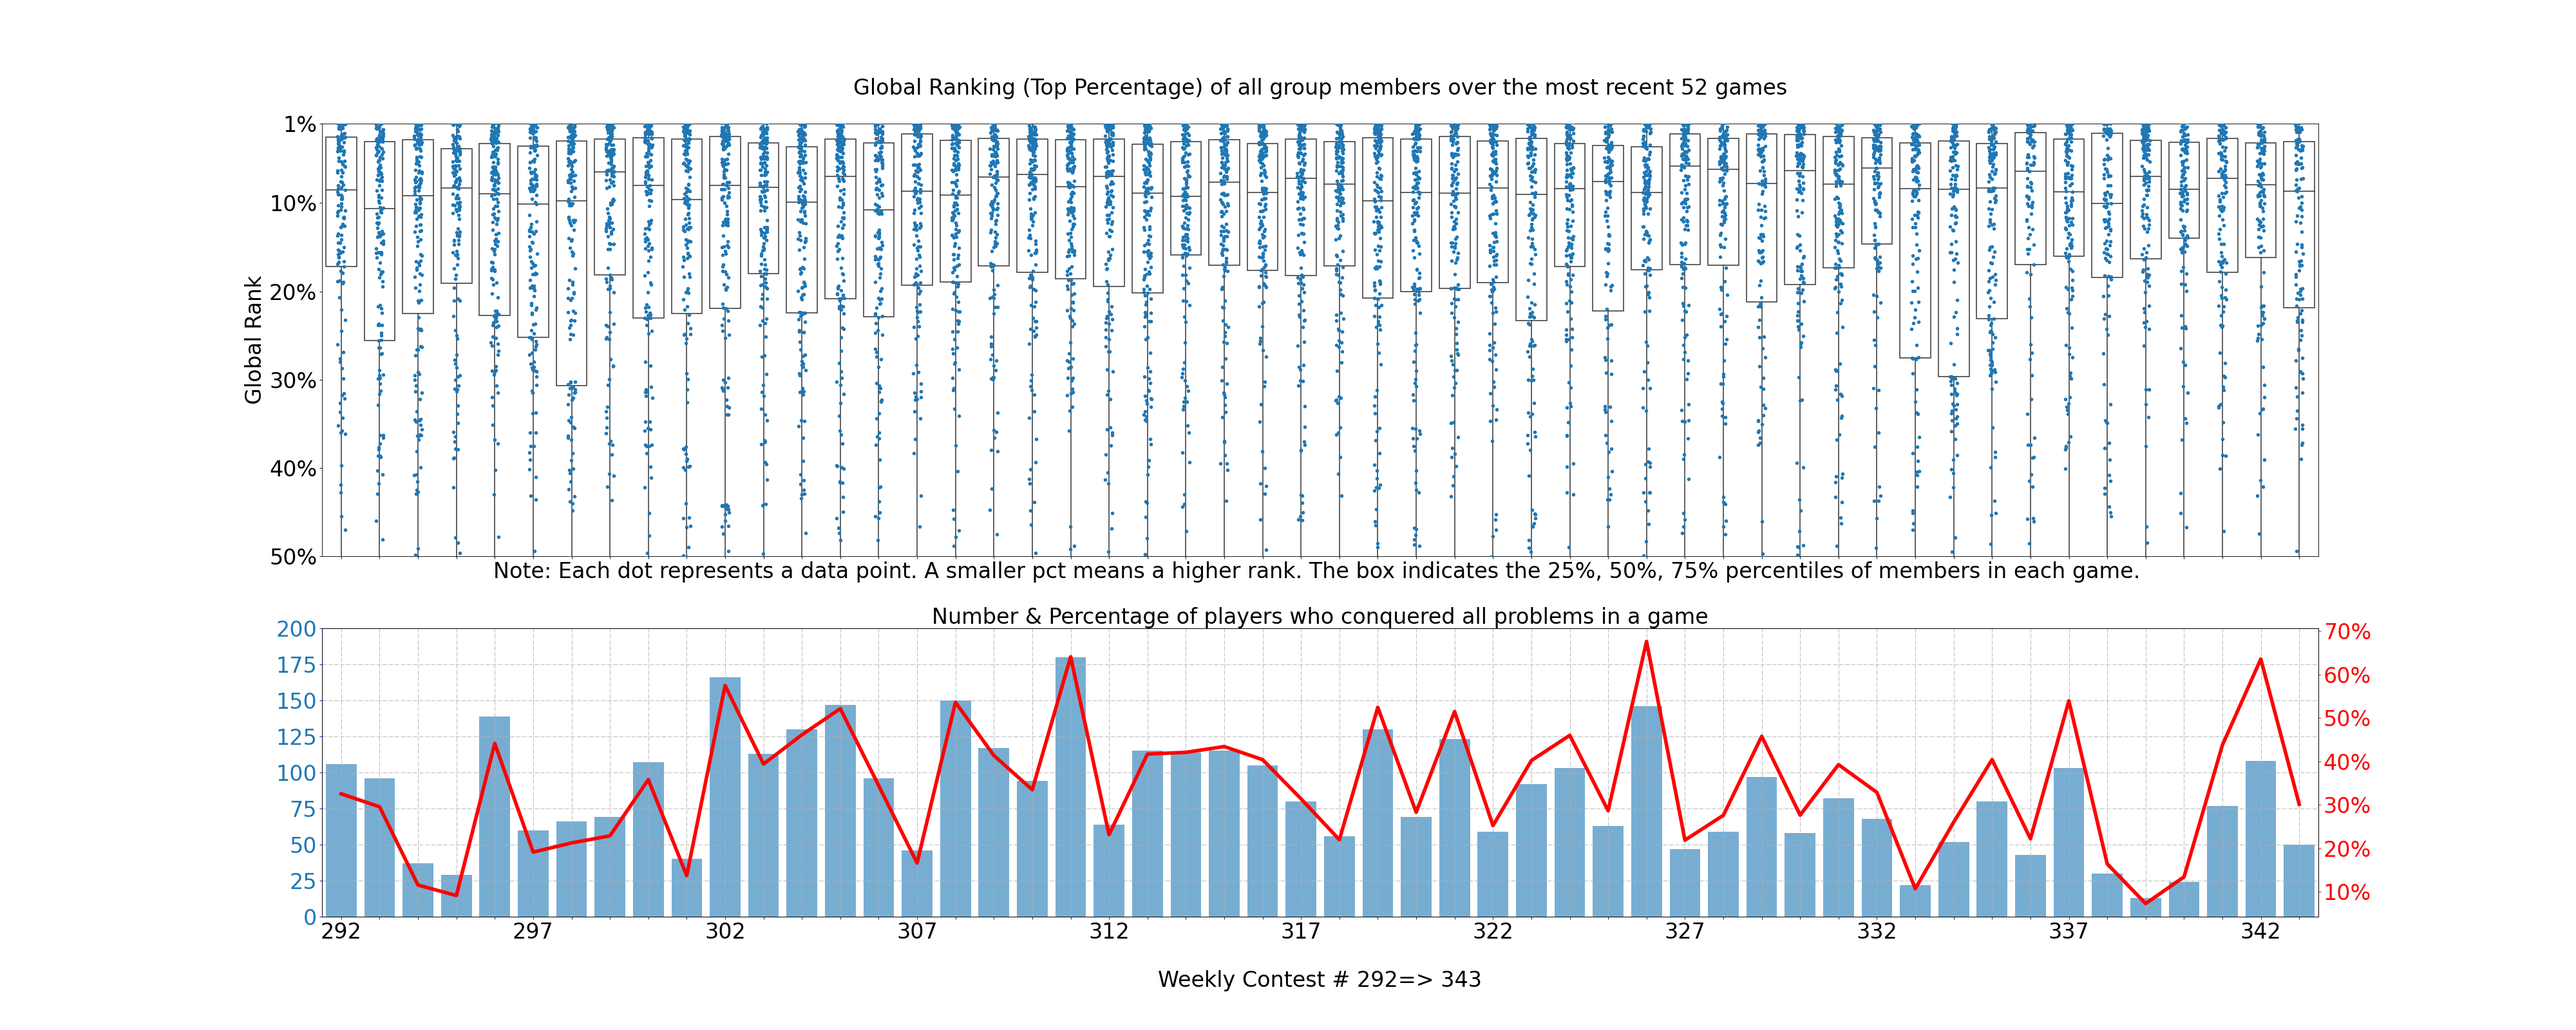
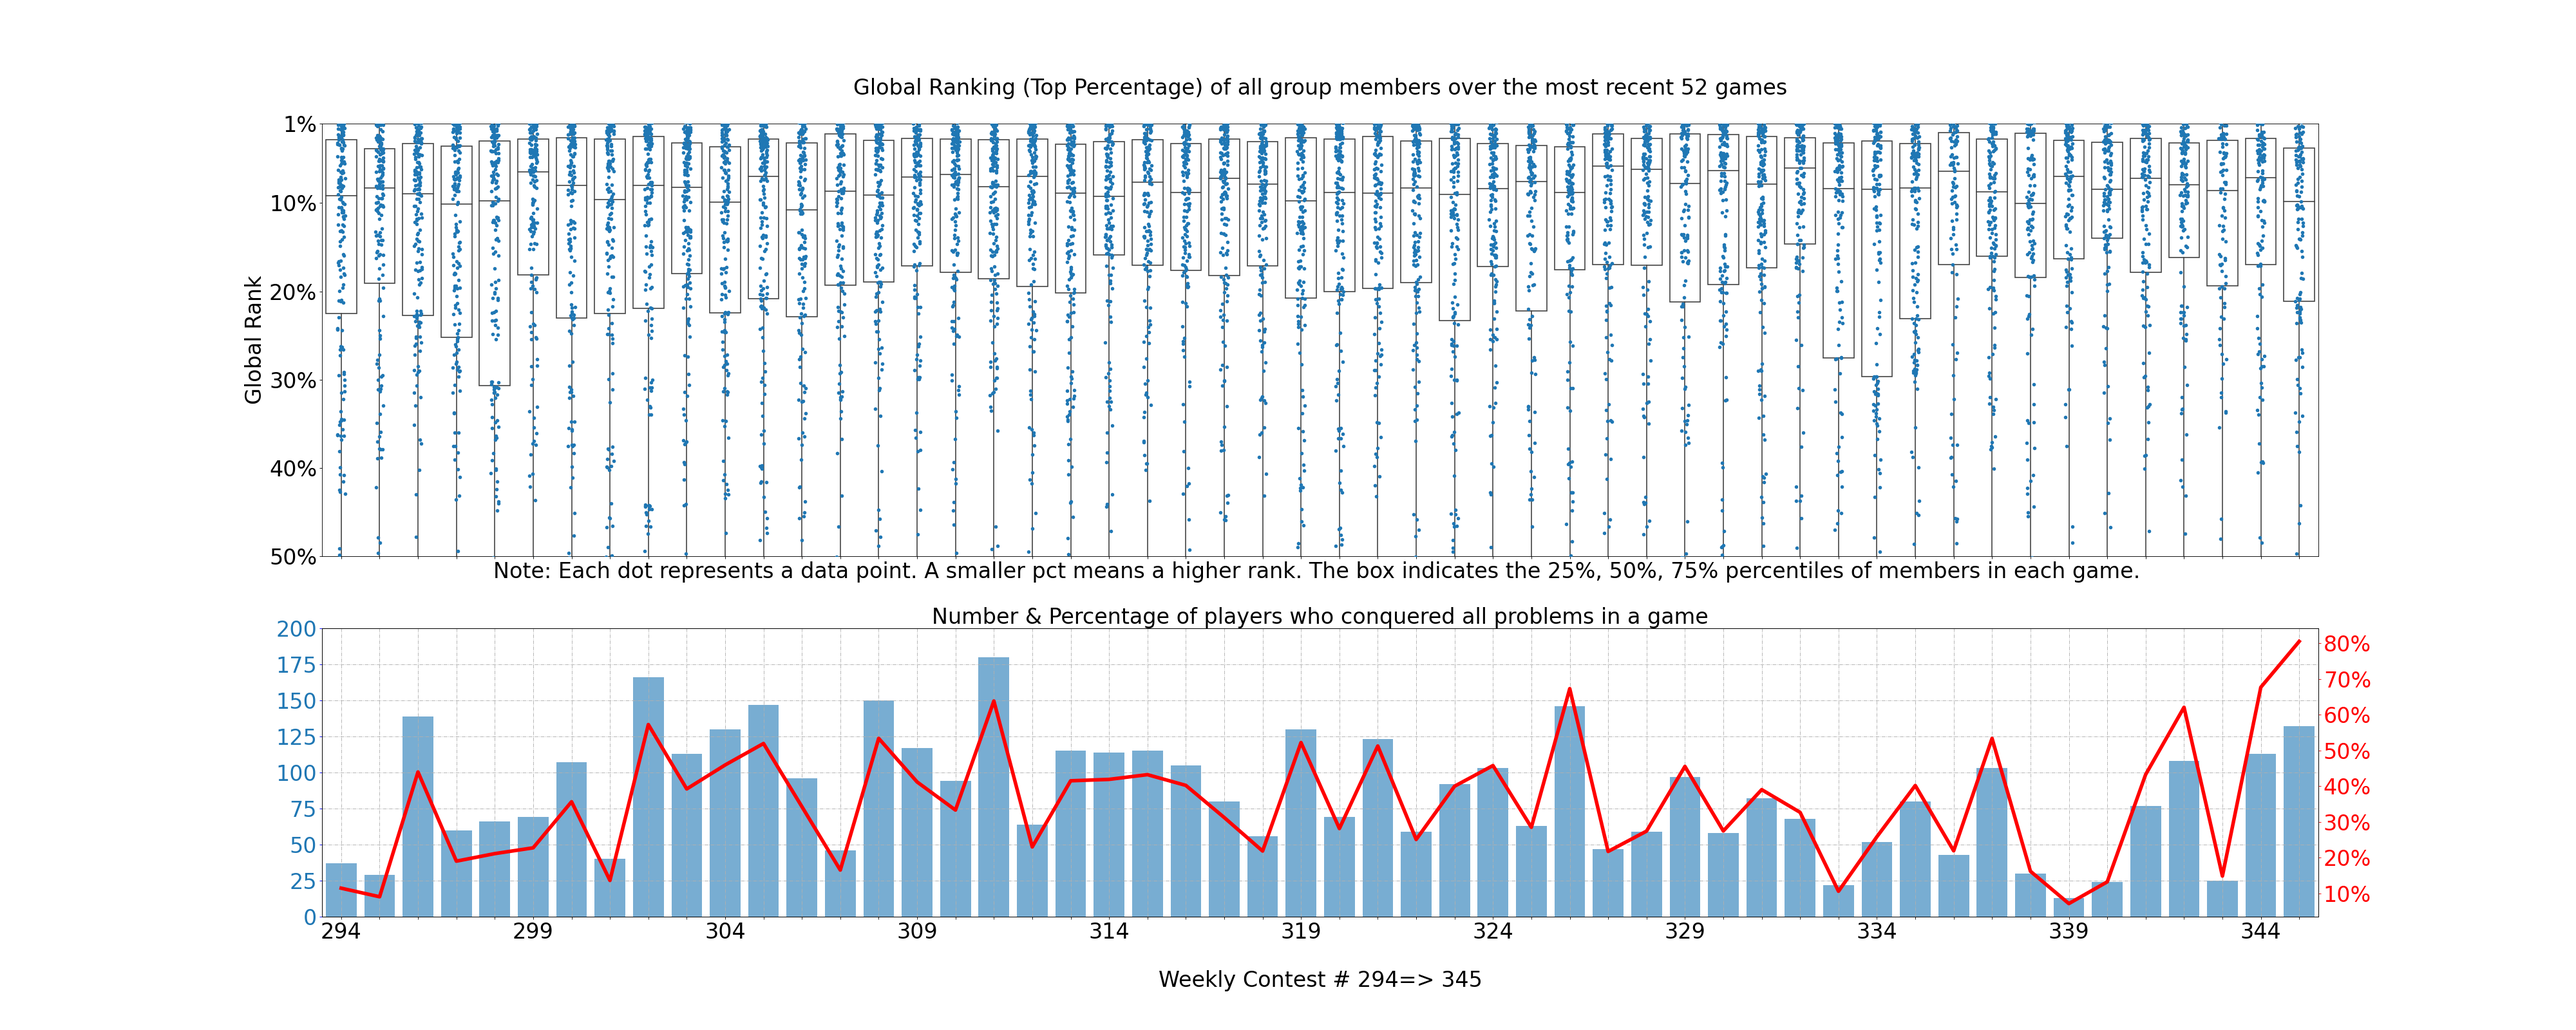
contest 345

diff --git a/getRank/PlotData.py b/getRank/PlotData.py
@@ -20,7 +20,7 @@ with open('contests.json', 'r') as f:
     json_str = json.load(f)
     contest_meta = json.loads(json_str)
 
-lastContest = 344
+lastContest = 345
 firstContest = lastContest-51
 
 '''**************************************'''
